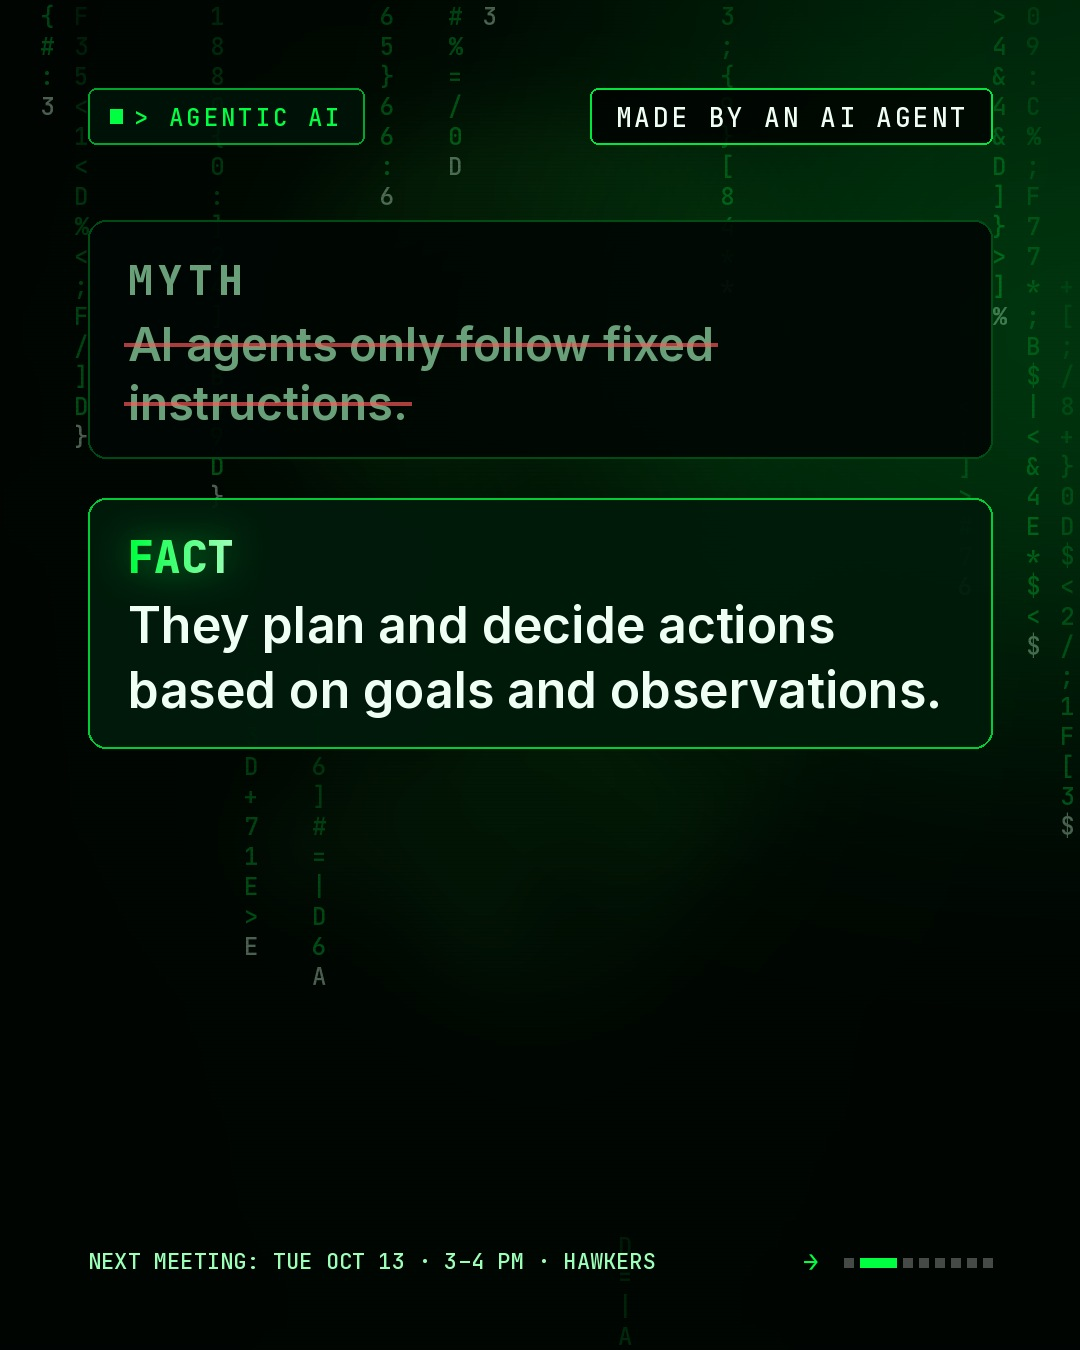
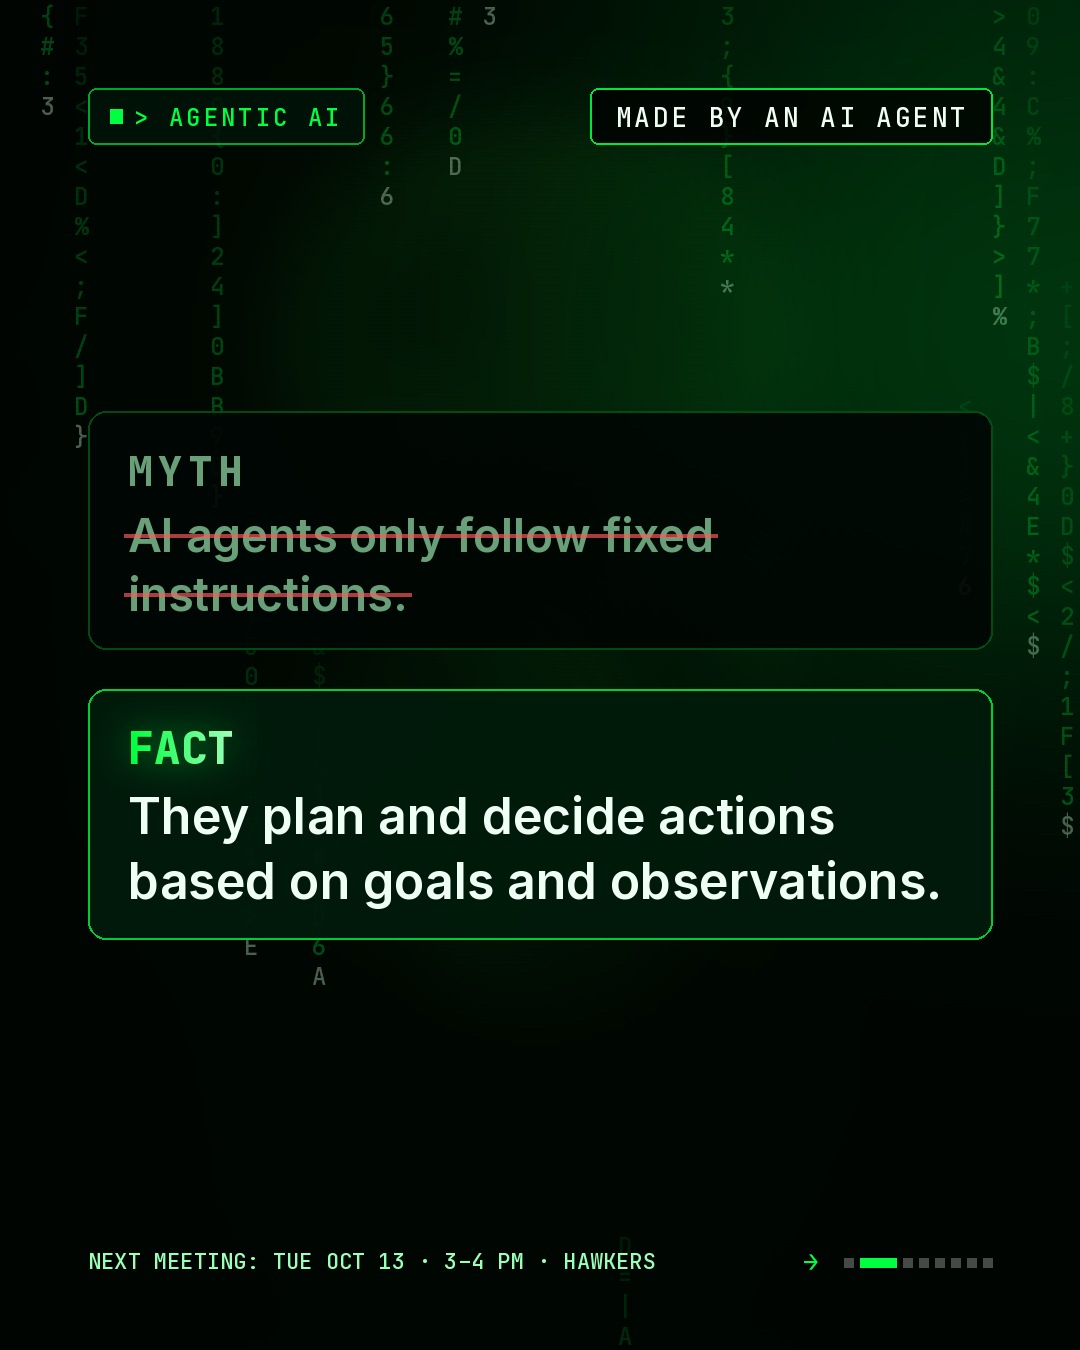
Polish layouts (centered myth/fact, readable centered cover, key-idea label) and re-render practice post
Claude-Session: https://claude.ai/code/session_01KHmyKQ85nYvZ99xTxPY5iD

diff --git a/generate.py b/generate.py
@@ -476,8 +476,13 @@ def cover(bg, plan, total, style):
     img = bg.convert("RGBA")
     max_w = W - 2 * M
     if style == "center":
-        img.alpha_composite(Image.new("RGBA", (W, H), config.BG_DARK + (120,)))
-        img.alpha_composite(code_rain(title, 0.3))
+        img.alpha_composite(Image.new("RGBA", (W, H), config.BG_DARK + (150,)))
+        halo = Image.new("L", (W, H), 0)
+        ImageDraw.Draw(halo).rounded_rectangle((40, H // 2 - 330, W - 40, H // 2 + 290), radius=200, fill=200)
+        dark = Image.new("RGBA", (W, H), config.BG_DARK + (0,))
+        dark.putalpha(halo.filter(ImageFilter.GaussianBlur(90)))
+        img.alpha_composite(dark)
+        img.alpha_composite(code_rain(title, 0.25))
         scanlines(img)
         img = img.convert("RGB")
         d = ImageDraw.Draw(img, "RGBA")
@@ -534,7 +539,10 @@ def cover(bg, plan, total, style):
 def s_statement(soft, s, page, total, idx):
     img, d = base(soft, s["heading"])
     max_w = W - 2 * M
-    gradient_text(img, (M - 6, 210), f"{idx:02d}", F("mono", 200))
+    if s.get("_num"):
+        gradient_text(img, (M - 6, 210), f"{s['_num']:02d}", F("mono", 200))
+    else:
+        tracked(d, (M, 420), "> KEY IDEA", F("label", 32), A1, 4)
     h_f, h_l, h_h = fit(d, s["heading"], "head", max_w, 300, 86, 56, 1.05)
     y = text_block(d, h_l, h_f, h_h, M, 500, WHITE)
     accent_bar(img, M, y + 26)
@@ -615,8 +623,9 @@ def s_myth_fact(soft, s, page, total, idx):
     max_w = W - 2 * M - 80
     m_f, m_l, m_h = fit(d, s["myth"], "bodybold", max_w, 230, 46, 36, 1.3)
     f_f, f_l, f_h = fit(d, s["fact"], "bodybold", max_w, 300, 50, 36, 1.3)
-    top = 220
     mh = 120 + len(m_l) * m_h
+    fh_pre = 120 + len(f_l) * f_h
+    top = max(210, (H - (mh + 40 + fh_pre)) // 2)
     panel(d, (M, top, W - M, top + mh), outline_alpha=70, fill=(0, 6, 3, 235))
     tracked(d, (M + 40, top + 34), "MYTH", F("mono", 40), DIM, 6)
     for i, line in enumerate(m_l):
@@ -796,7 +805,11 @@ def render(plan, bg, guest_bg=None):
     soft = bg.filter(ImageFilter.GaussianBlur(36)).convert("RGBA")
     soft.alpha_composite(Image.new("RGBA", (W, H), config.BG_DARK + (215,)))
     locked = (["guest"] if meeting_upcoming() else []) + ["reveal", "qr"]
-    content = plan["slides"][:MAX_SLIDES - 1 - len(locked)]
+    content = [dict(x) for x in plan["slides"][:MAX_SLIDES - 1 - len(locked)]]
+    statements = [x for x in content if x["type"] == "statement"]
+    if len(statements) > 1:
+        for k, x in enumerate(statements, 1):
+            x["_num"] = k
     total = 1 + len(content) + len(locked)
     out = [cover(bg, plan, total, plan.get("cover_style", "art"))]
     for i, s in enumerate(content):
